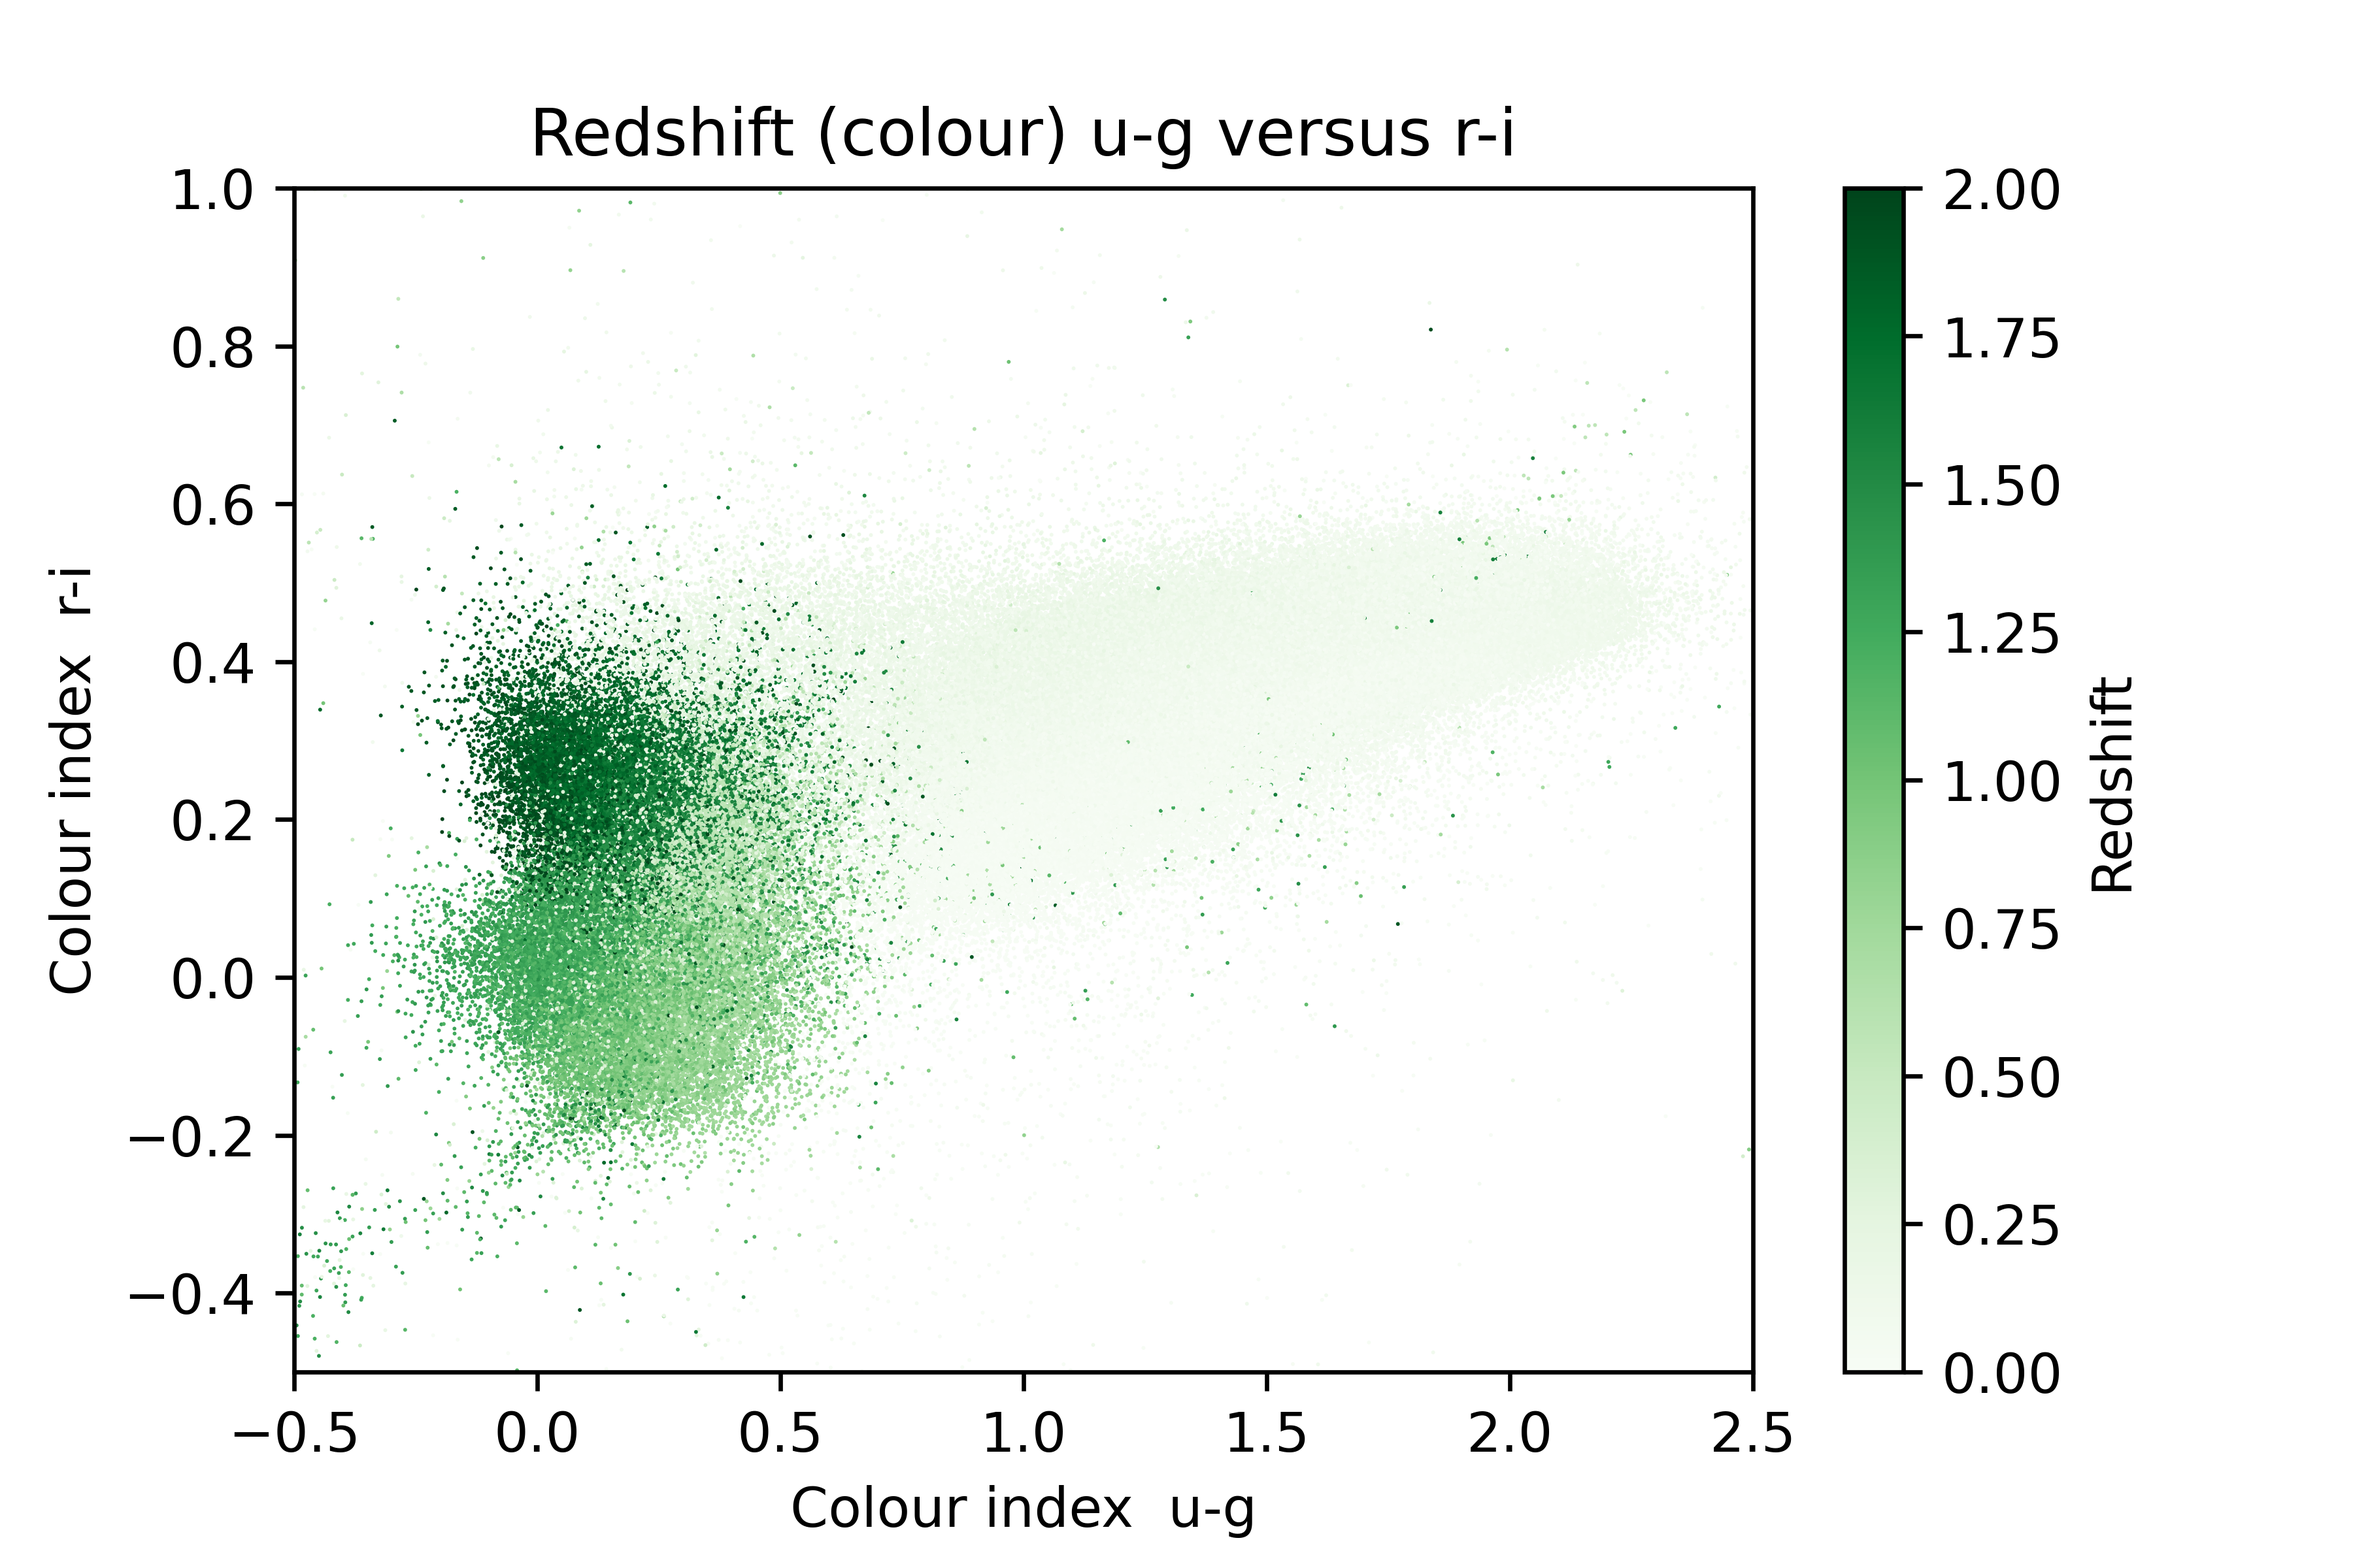
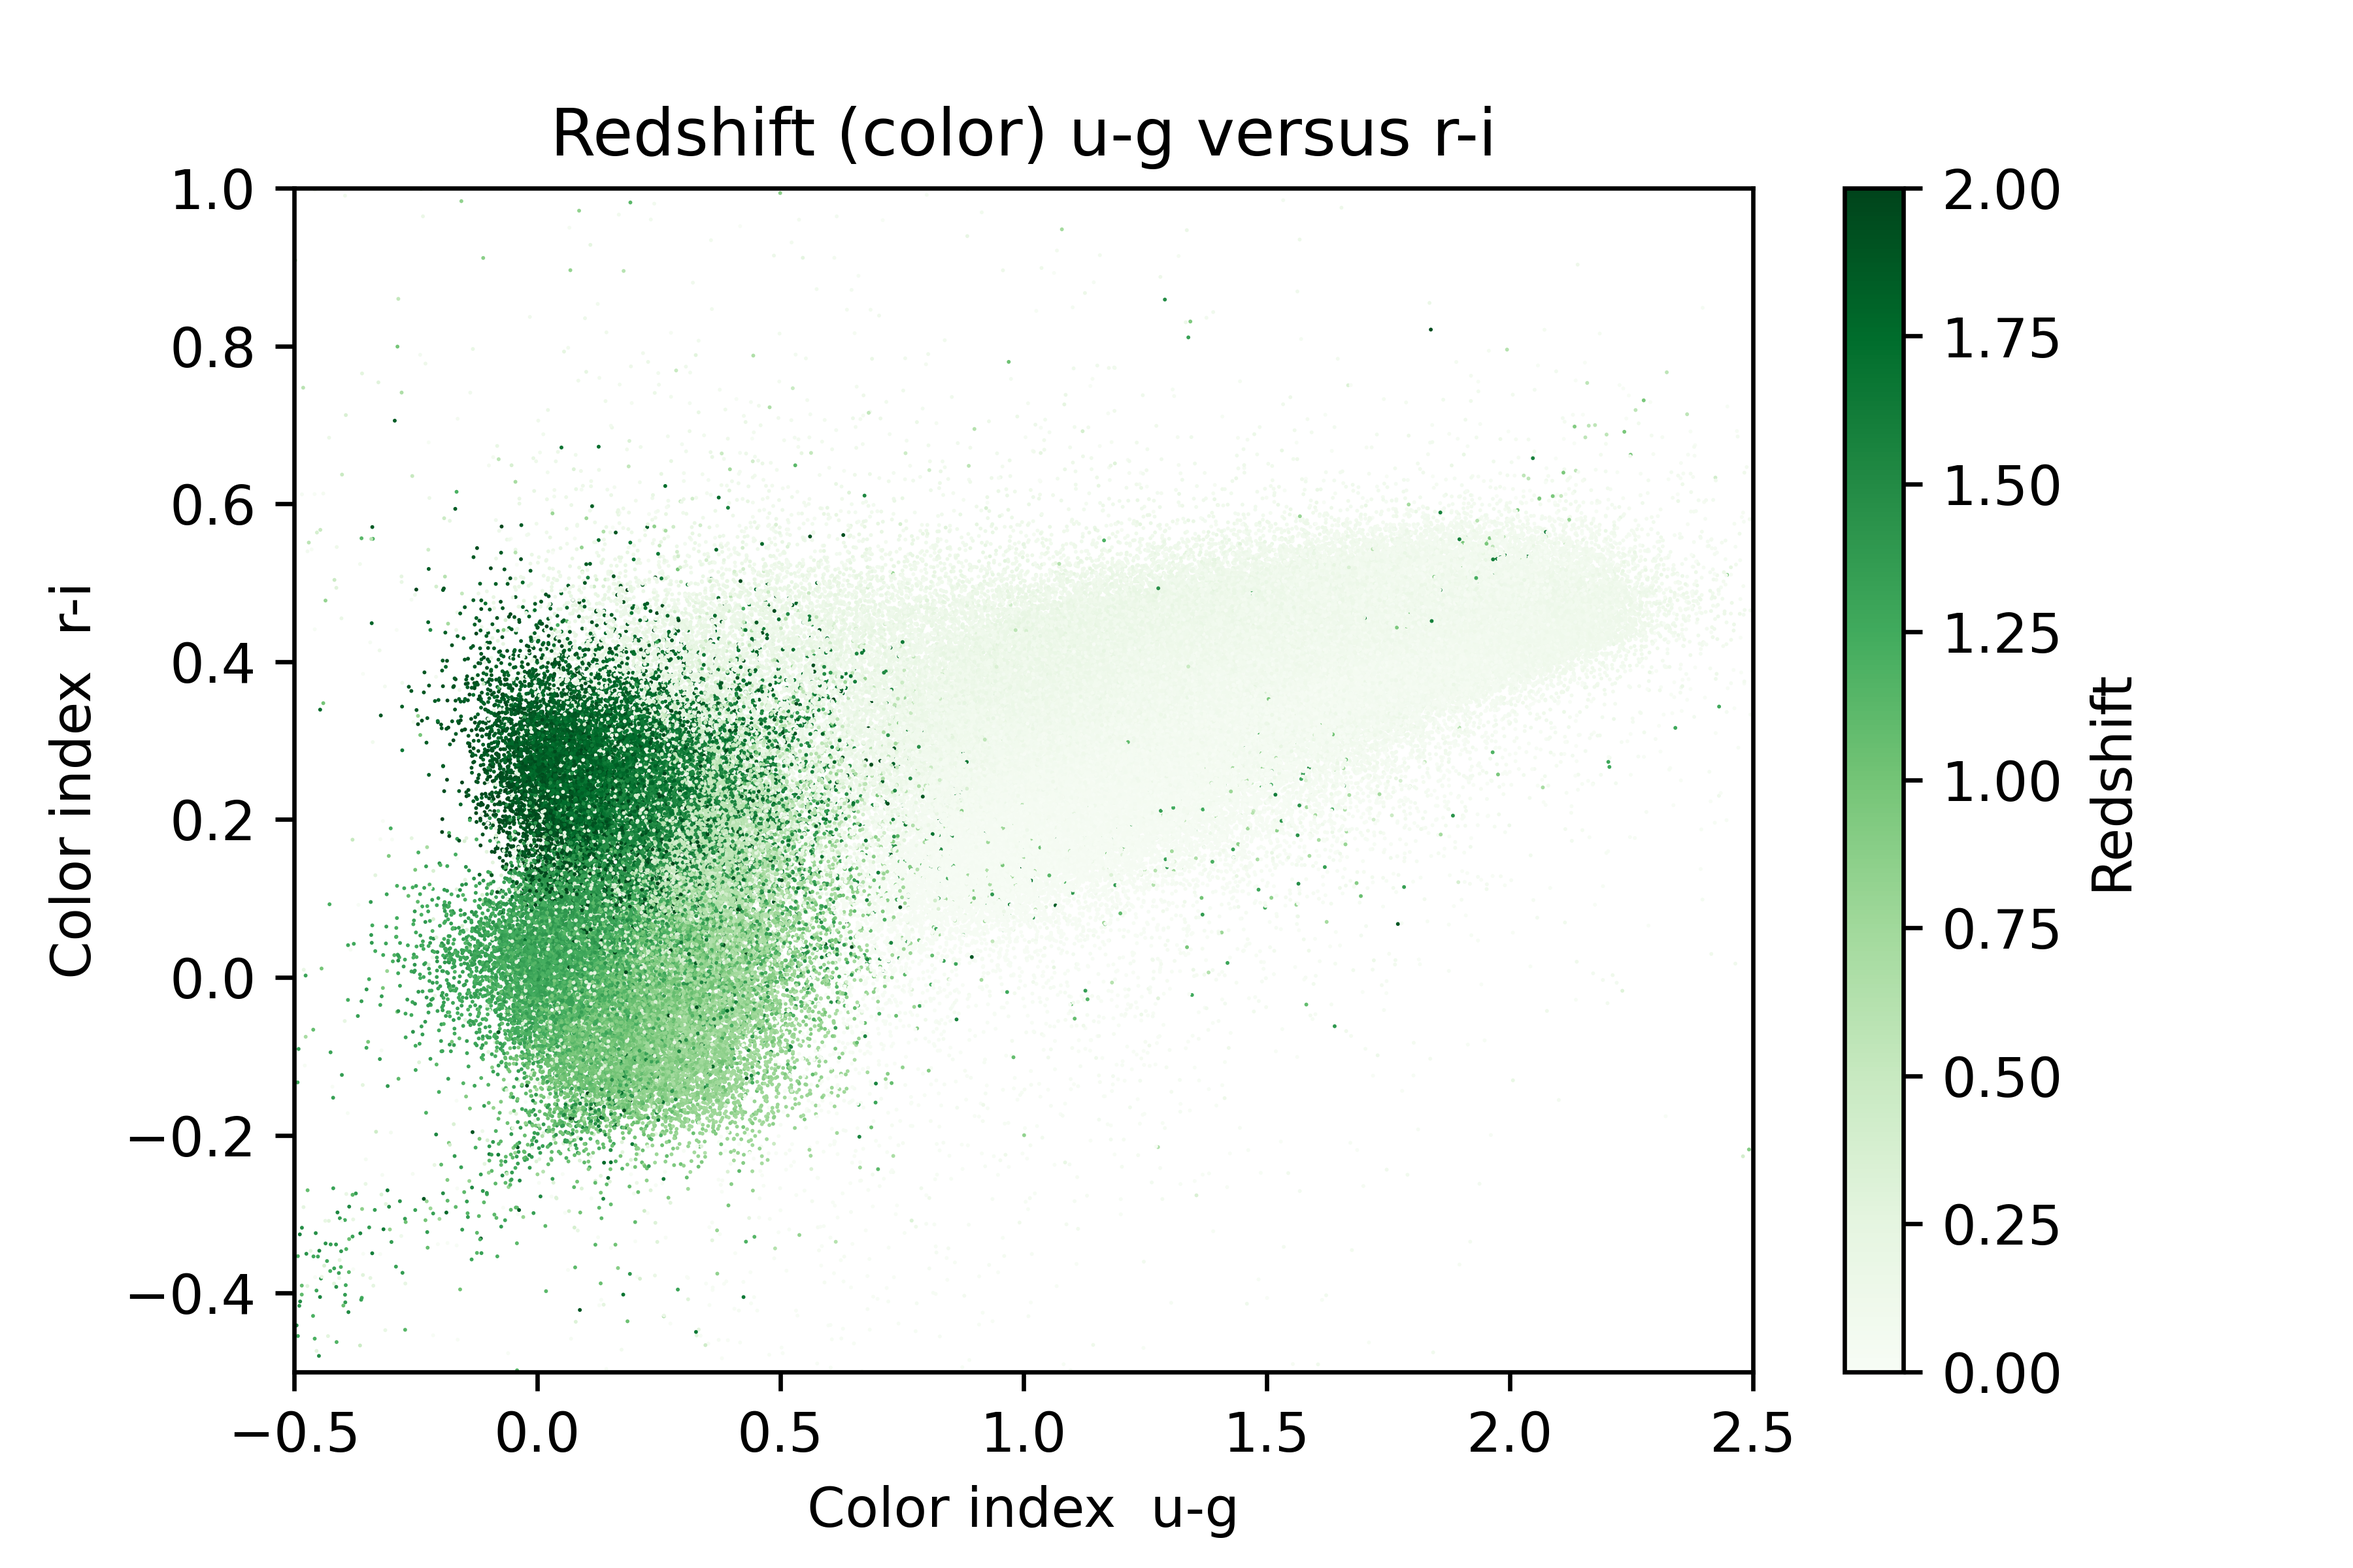
sd

diff --git a/src/photometric_sdss/contourmap.py b/src/photometric_sdss/contourmap.py
@@ -23,9 +23,9 @@ if __name__ == "__main__":
 
     # Define your axis labels and plot title
     plt.clim(0, 2.0)
-    plt.xlabel("Colour index  u-g")
-    plt.ylabel("Colour index  r-i")
-    plt.title("Redshift (colour) u-g versus r-i")
+    plt.xlabel("Color index  u-g")
+    plt.ylabel("Color index  r-i")
+    plt.title("Redshift (color) u-g versus r-i")
 
     # Set any axis limits
     plt.xlim(-0.5, 2.5)

diff --git a/src/photometric_sdss/newplot/standard deviation.py b/src/photometric_sdss/newplot/standard deviation.py
@@ -1,0 +1,8 @@
+import pandas as pd
+import numpy as np
+import math
+sum=0
+data=pd.read_csv("deltaz_dtree_under2.csv")
+for i in range (87938):
+    sum=sum+(data.iloc[i, 0]**2)
+sd=math.sqrt(sum/i)
